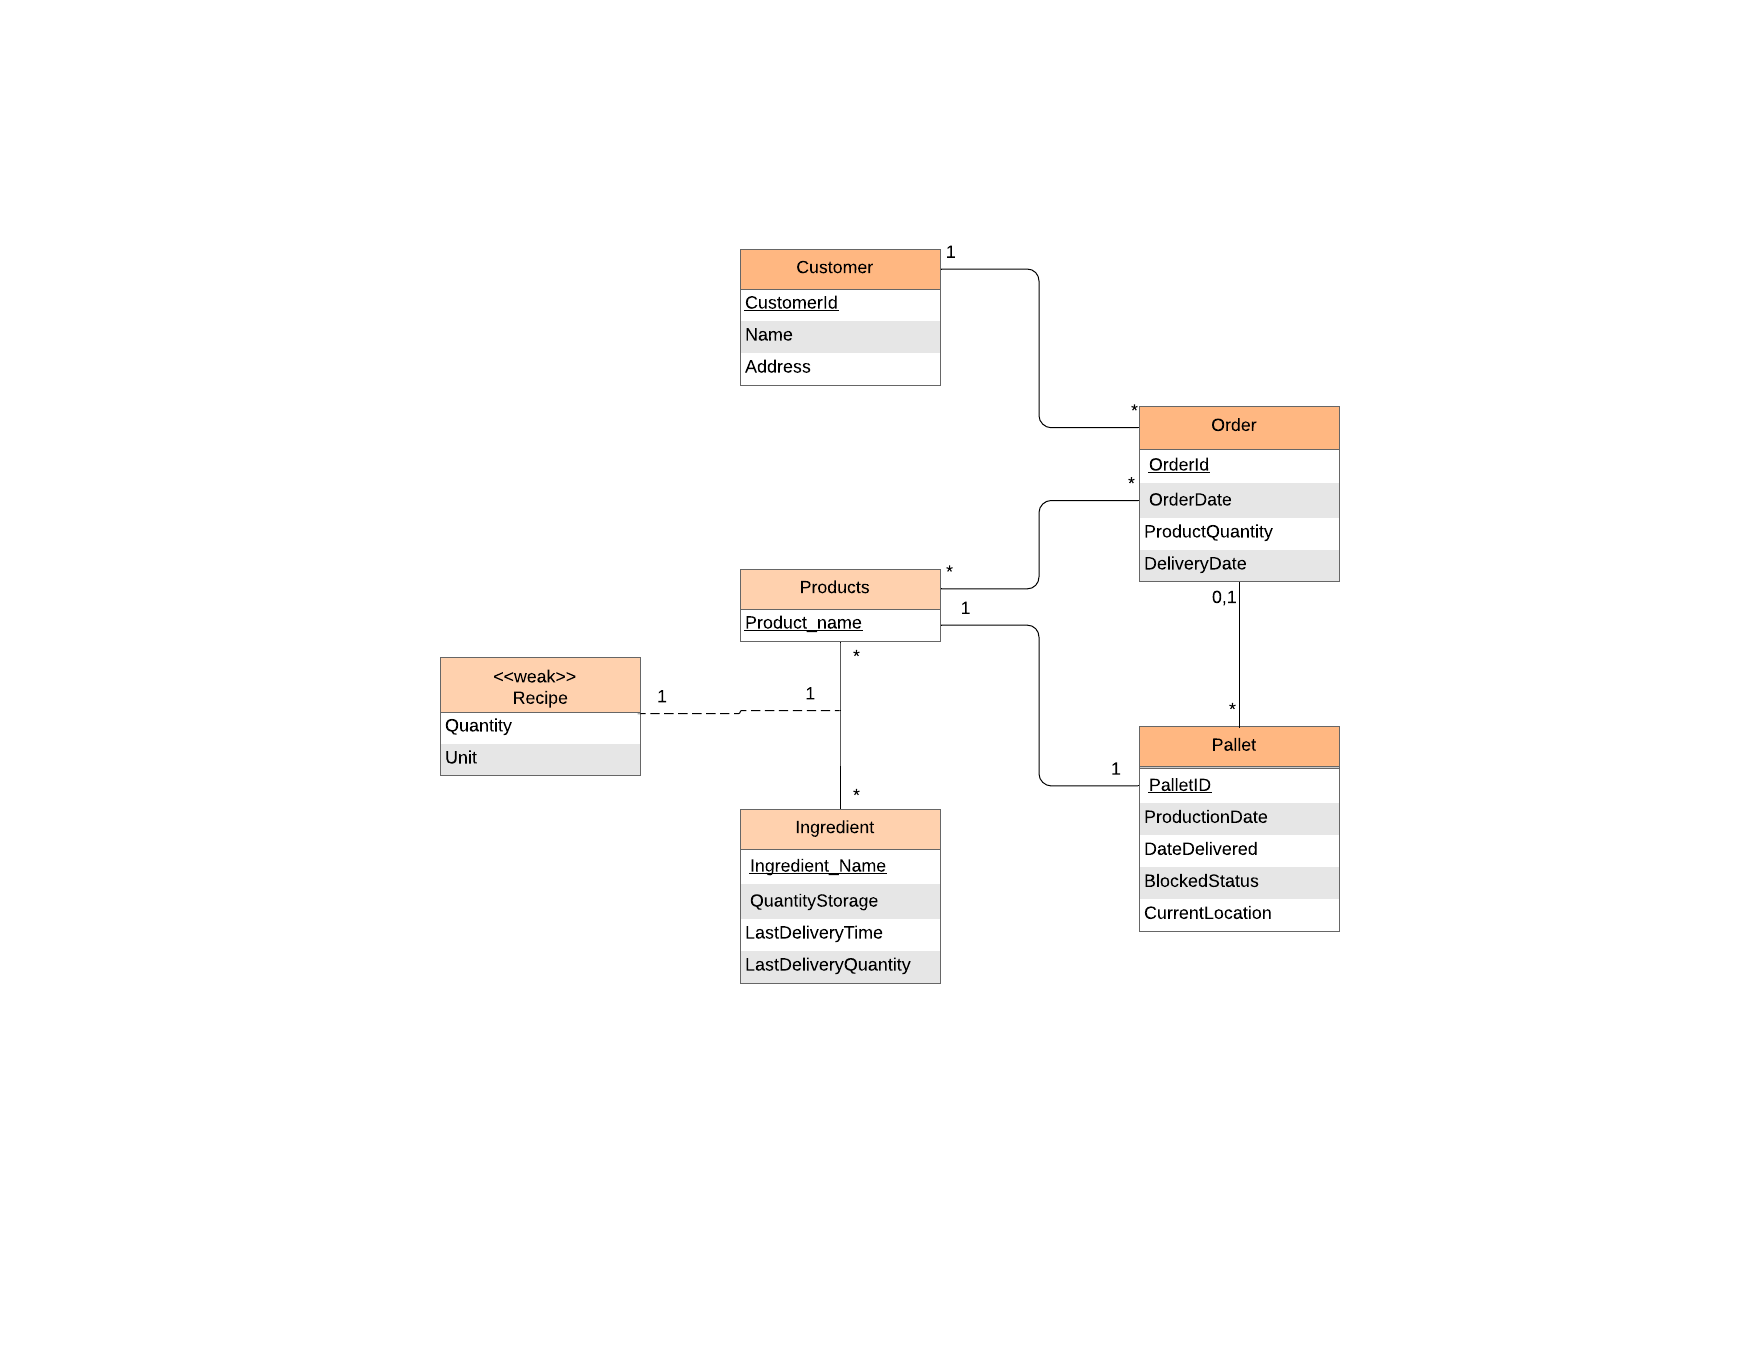
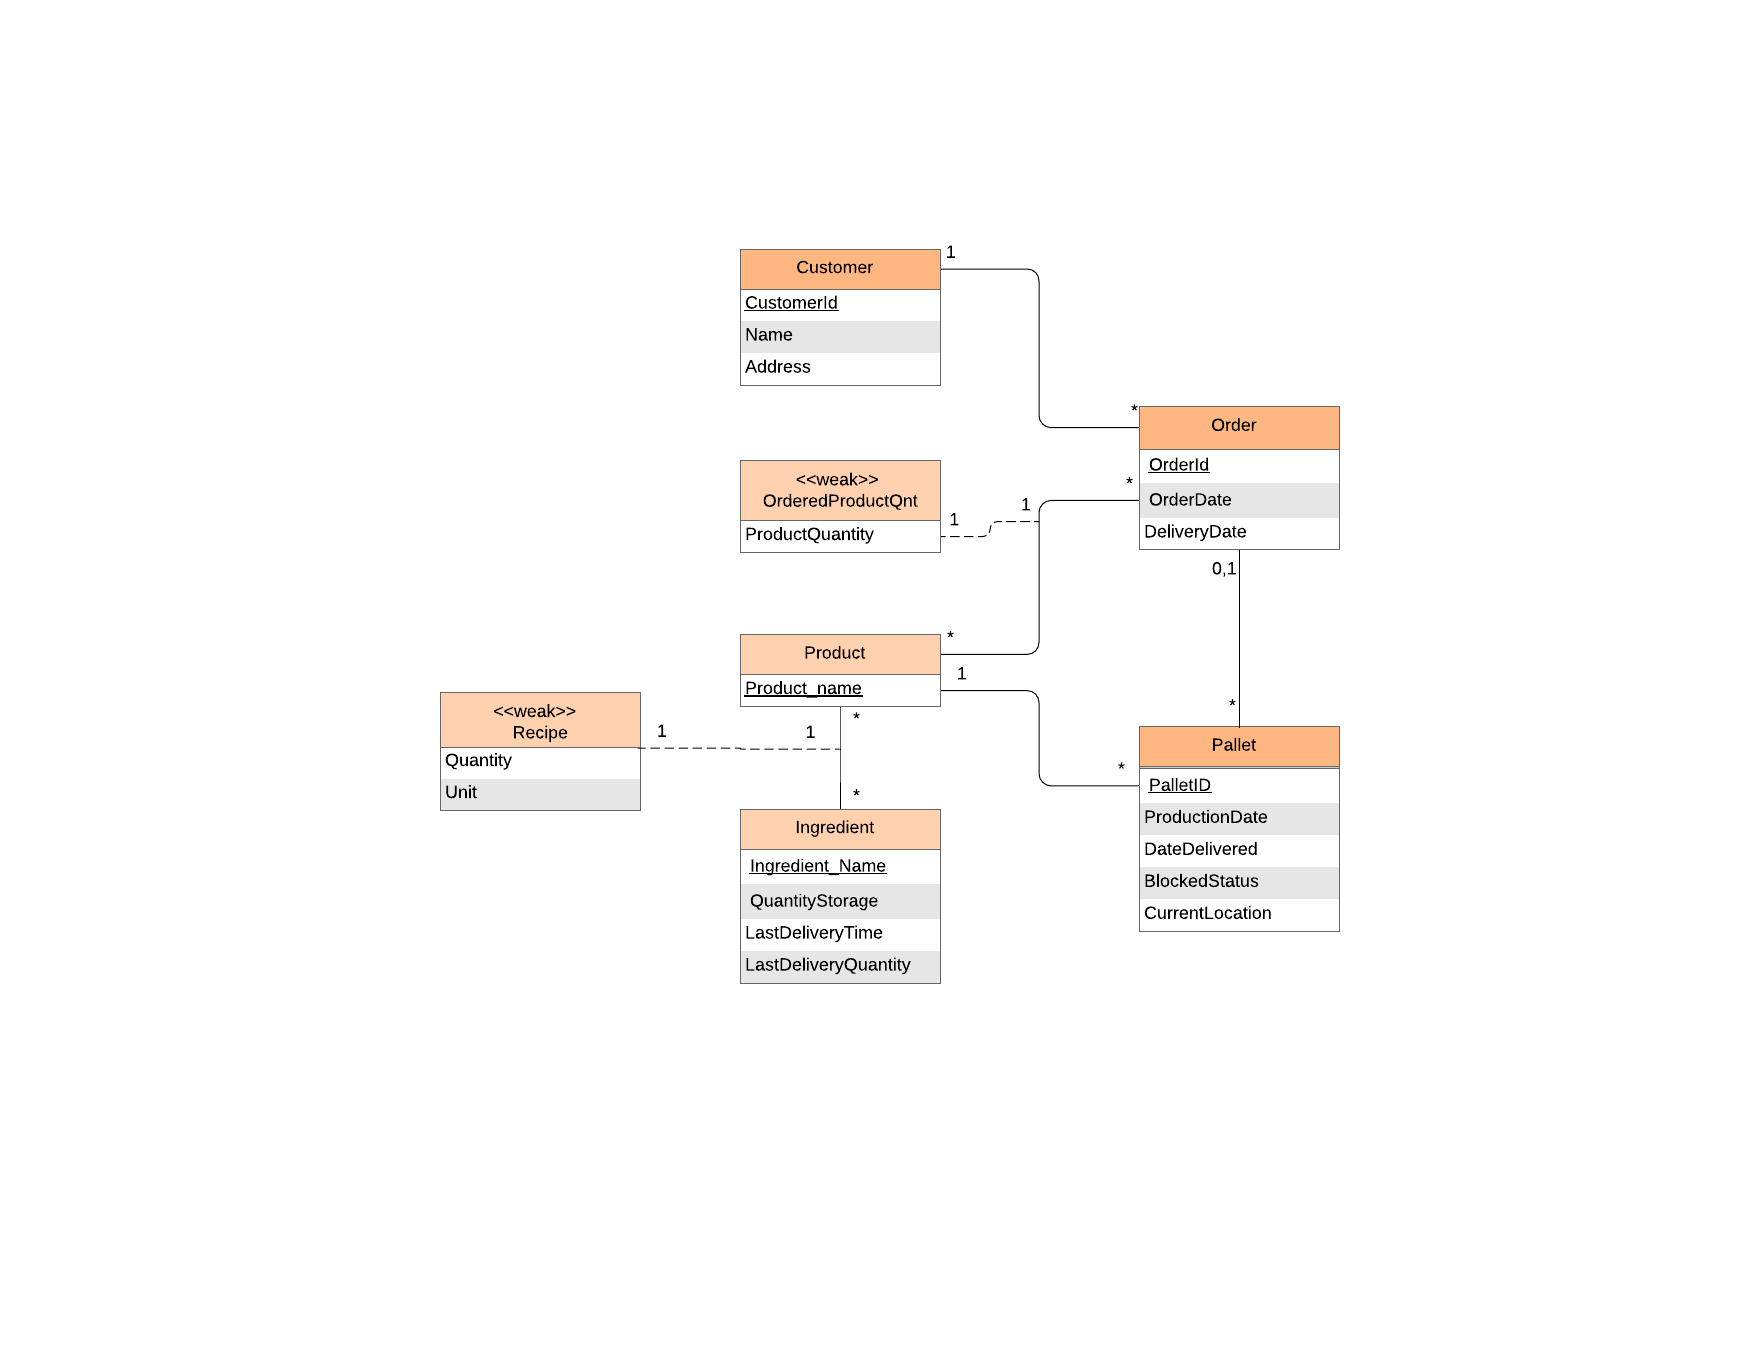
Finalized UML-diagram and E/R model

Changed region(s): [[0.3993, 0.3402, 0.5529, 0.5258], [0.2457, 0.4639, 0.3686, 0.6186], [0.6451, 0.3711, 0.7679, 0.433]]

diff --git a/README.md b/README.md
@@ -52,8 +52,8 @@ are both primary keys and foreign keys
 
 + Recipe(***Product_name***, ***Ingredient_name***, Quantity, Unit)
 + Product(**Product_name**)
-+ OrderedProductQnt(*****Product_name***, ***Orderid***, ProductQuantity)
-+ Order(**Orderid**, *CustomerId*, OrderDate, DeliveryDate)
++ OrderedProductQnt(***Product_name***, ***Orderid***, ProductQuantity)
++ Order(**Orderid**, *Customerid*, OrderDate, DeliveryDate)
 + Customer(**Customerid**, Name, Address)
 
 + Pallet(**Palletid**, *Product_Name*, *Orderid*, ProductionDate, DateDelivered, BlockedStatus, CurrentLocation)
